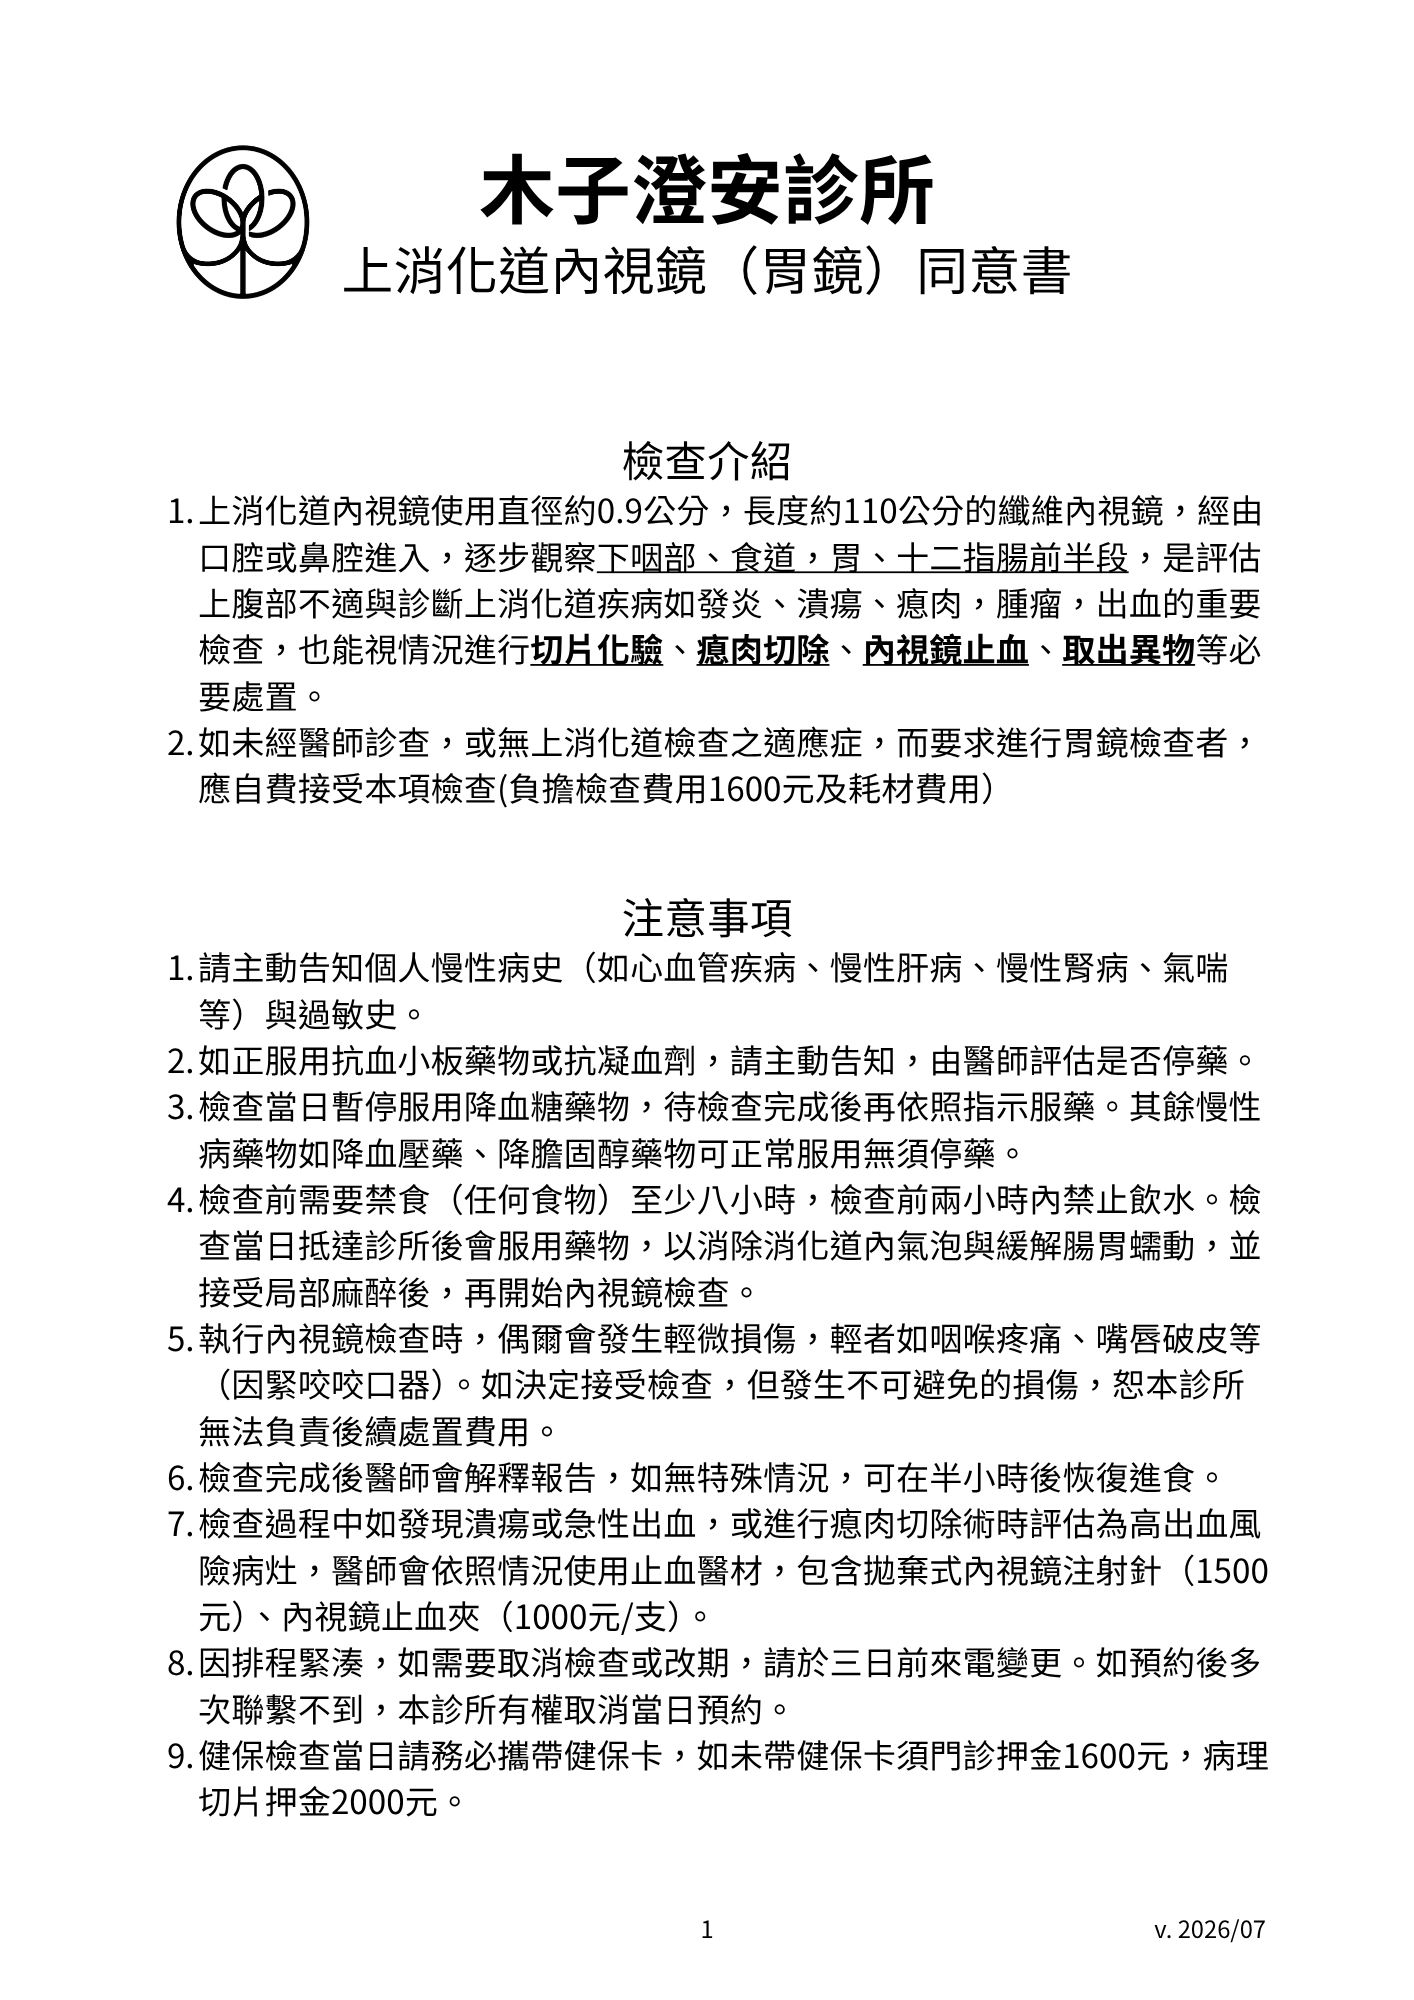
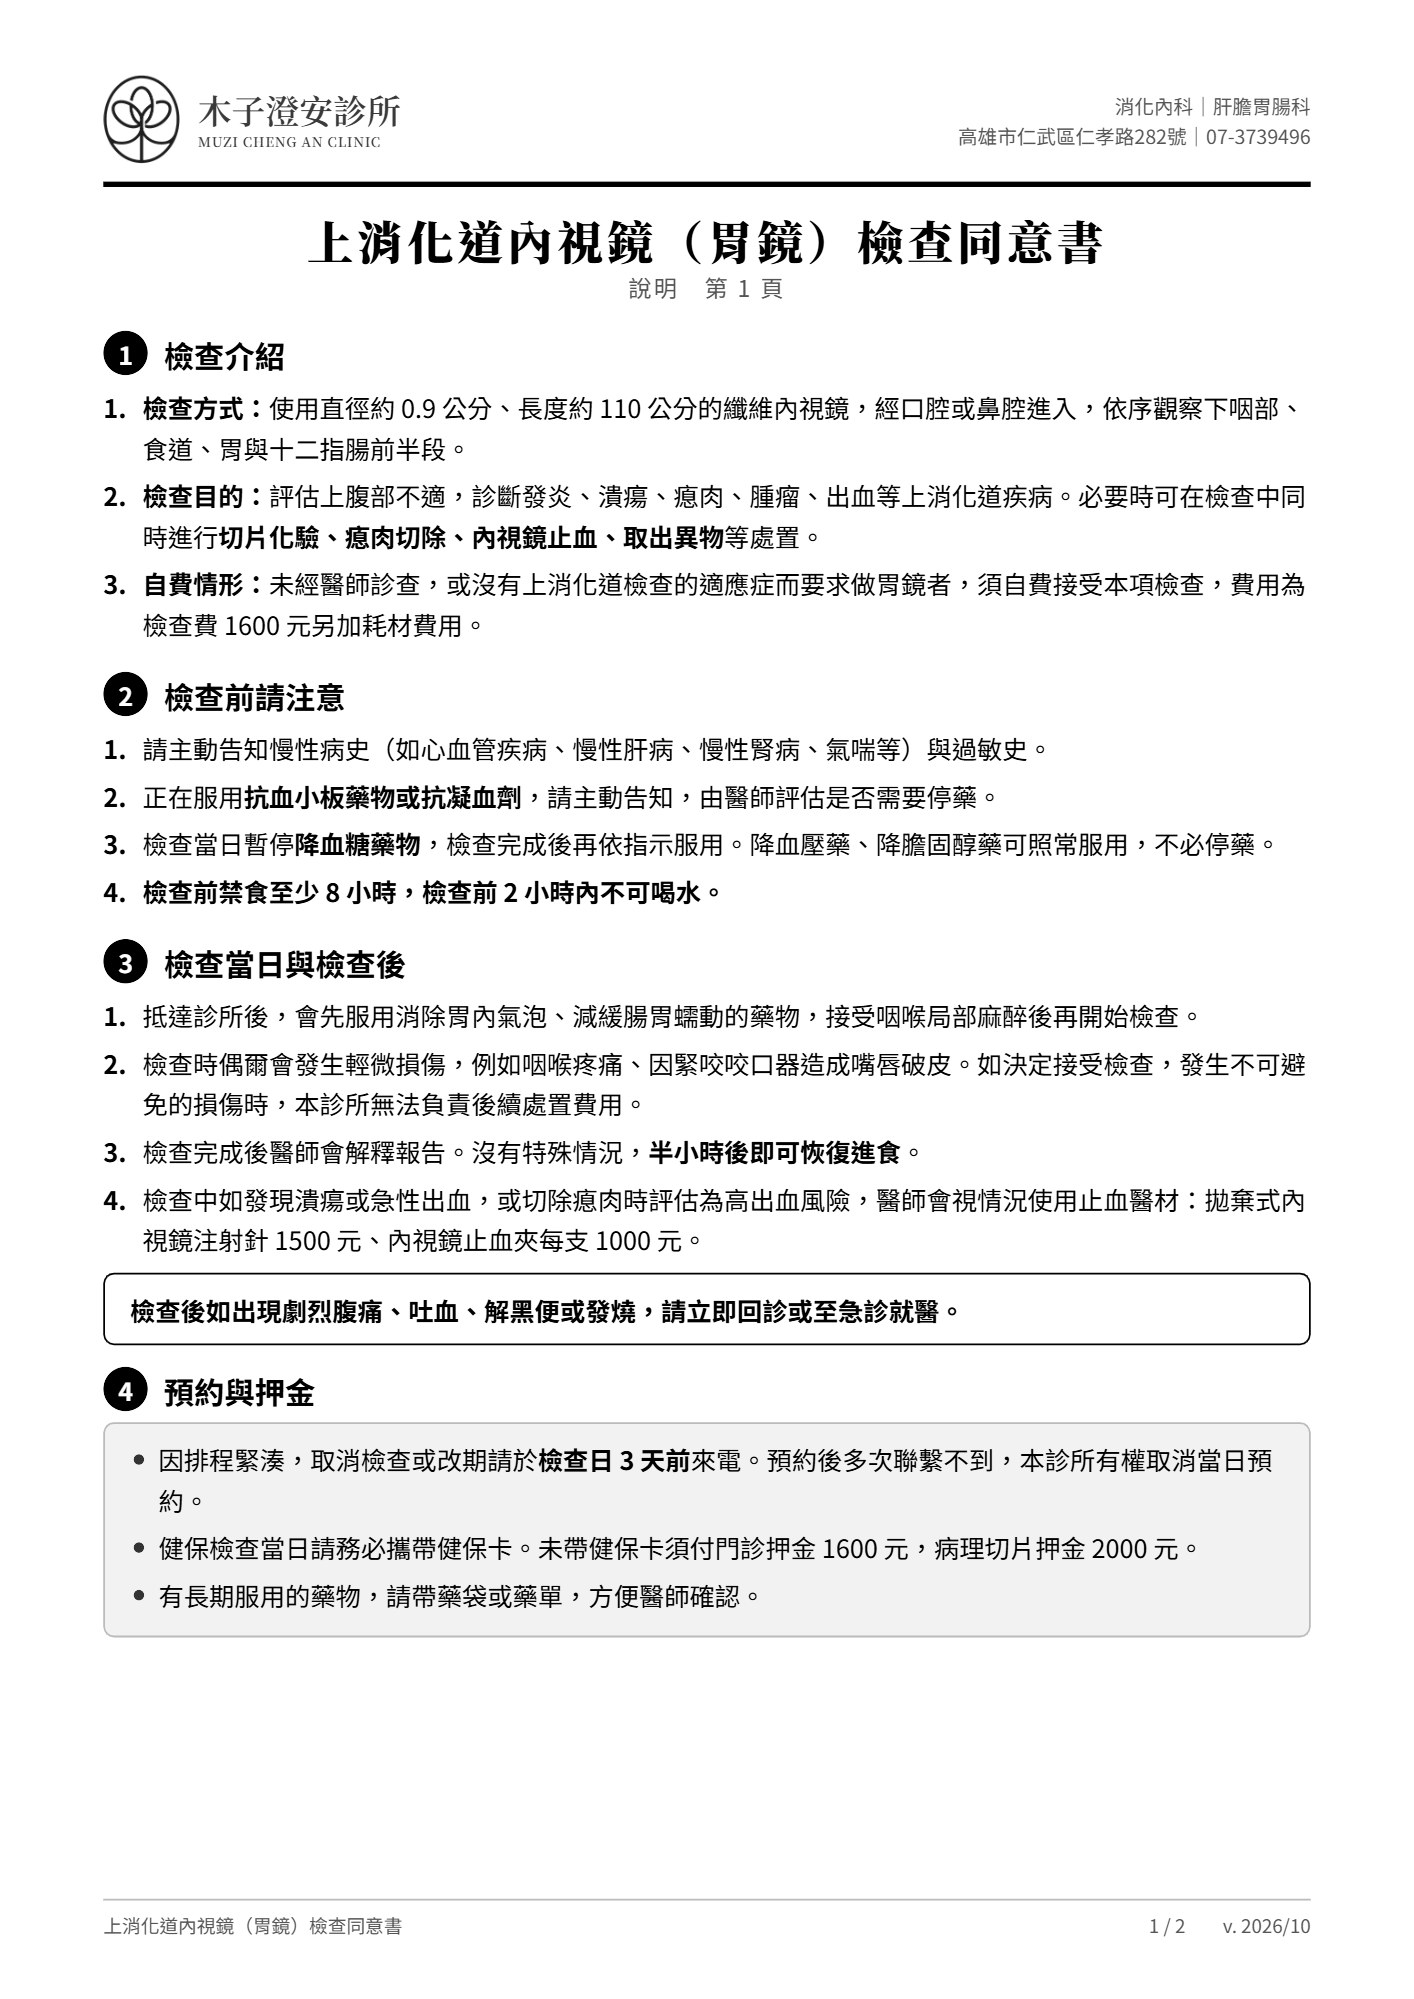
同意書：七份換成黑白 A4 新版（與工作台同步）
- 胃鏡、大腸鏡、膠囊、輕中度鎮靜、靜脈麻醉、冷凝刀、甲狀腺穿刺共 14 頁，頁數不變
- 原始檔在 tools repo 的 consent-src/
- APP_REVISION 改為 2026-10-22

diff --git a/index.html b/index.html
@@ -3575,7 +3575,7 @@ document.getElementById('btnPrint').addEventListener('click',()=>{
    最後改版日期
    ★ 每次改版請一併更新這個日期，會顯示於首頁左下角與列印版頁尾
    ═══════════════════════════════════════════════════════════════════ */
-const APP_REVISION = '2026-10-21';
+const APP_REVISION = '2026-10-22';
 
 function renderAppRevision(){
   const el = document.getElementById('appRevision');
